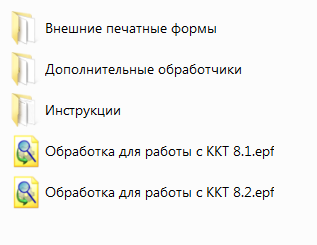
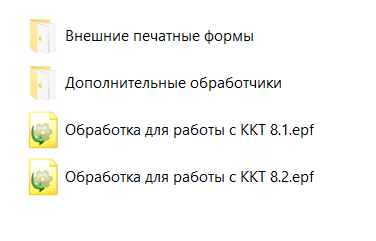
Обновлена структура каталога с обработкой

Changed region(s): [[0.0284, 0.029, 0.8801, 0.8714]]

diff --git a/Инструкция.md b/Инструкция.md
@@ -20,10 +20,6 @@
 
 - «**Обработка для работы с ККТ 8.1.epf**» - Основная обработка для платформы 1С 8.1
 
-- «**Инструкции\\История версий обработки ККТ 54.pdf**» - содержит историю вышедших релизов обработки, в нем можно увидеть, что изменилось в последних версиях.
-
-- «**Инструкции\\Обработка для работы фискальных регистраторов с поддержкой ККТ.pdf**» - содержит полную инструкцию по работе с обработкой.
-
 - «**Дополнительные обработчики\\KKT_DEVELOPE_8_2.epf**» - обработка для платформы 8.2 или 8.3, в которую можно внести свой код и подключить к основной обработке, для изменения функционала печати.
 
 - «**Дополнительные обработчики\\KKT_DEVELOPE_8_1.epf**» - обработка для платформы 8.1, в которую можно внести свой код и подключить к основной обработке, для изменения функционала печати.
